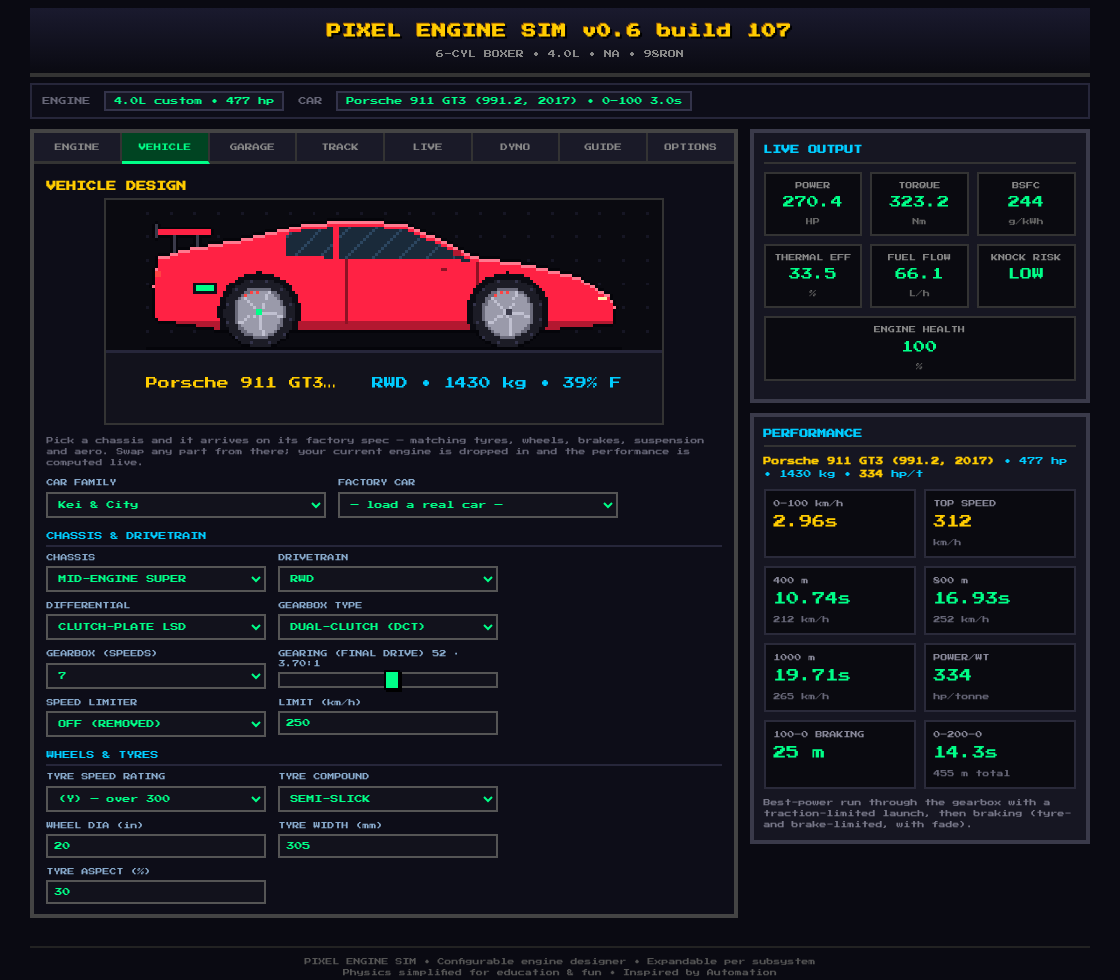
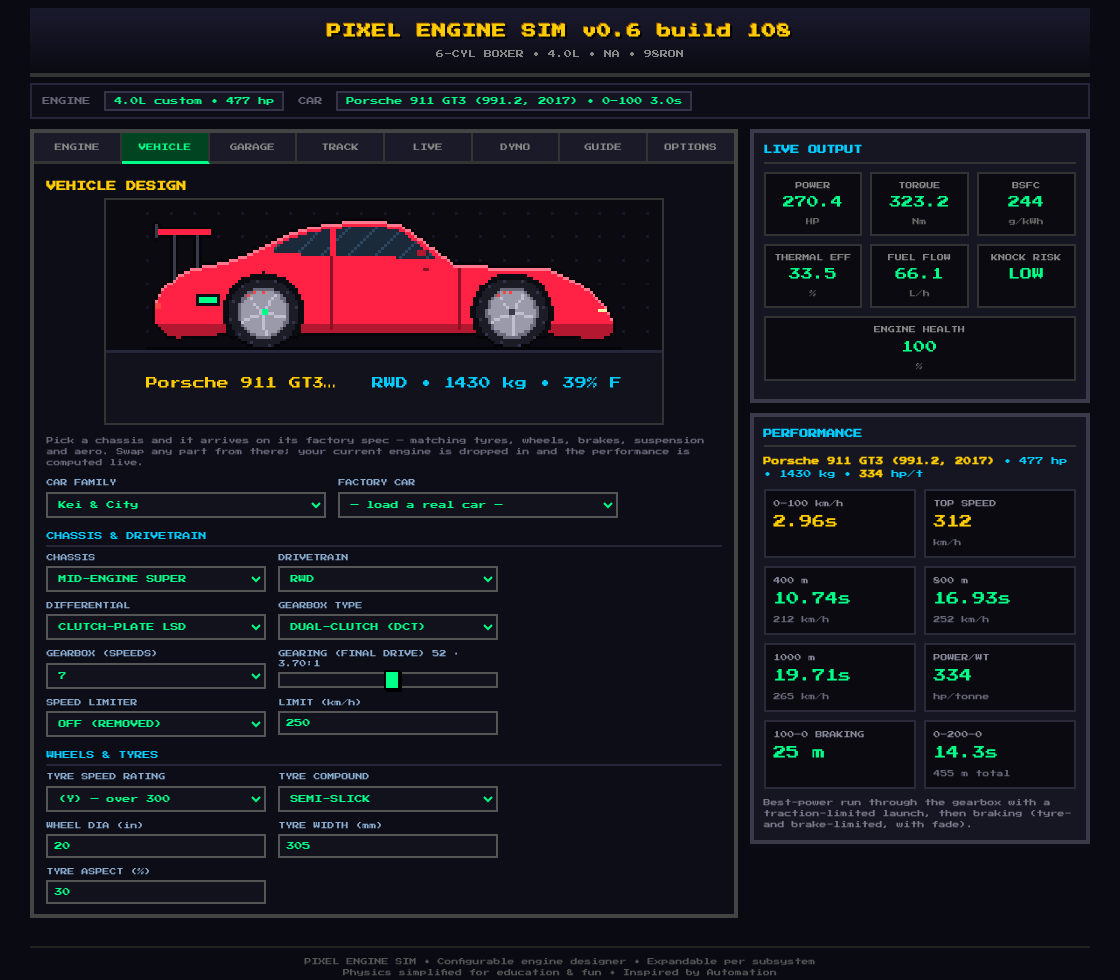
Build 108: trace the 911 GT3 profile from a real side view
The gt3 outline now comes from a Commons photo of the same 991 shell
(Porsche 991 Turbo S Seitenansicht, KarleHorn, CC BY 3.0). The photo's
close-camera perspective is corrected and the trace is fitted to the
published GT3 length, height and wheelbase. Only numbers ship.

Claude-Session: https://claude.ai/code/session_01JPC6jKbru9EiUk7AgLf2d3

Changed region(s): [[0.125, 0.2143, 0.3125, 0.3673], [0.375, 0.2449, 0.5625, 0.3673], [0.3438, 0.2143, 0.375, 0.2449]]

diff --git a/index.html b/index.html
@@ -281,7 +281,7 @@ table.fuelmap td.live{box-shadow:inset 0 0 0 2px #fff;font-weight:bold}
 <body>
 <div class="container">
 <header>
-<h1>PIXEL ENGINE SIM v0.6 build 107</h1>
+<h1>PIXEL ENGINE SIM v0.6 build 108</h1>
 <div class="subtitle" id="subtitle">ENGINE DESIGNER • BUILD IT, THEN DRIVE IT</div>
 </header>
 <div class="build-strip" id="buildStrip">
@@ -7065,9 +7065,9 @@ const CAR_PROFILE={
   s2000:{n:'Honda S2000 (AP1)',src:'Honda 1999: L4135 W1750 H1285 WB2400',L:4.135,W:1.750,H:1.285,wb:2.400,ovR:0.80,r:0.316,sill:0.20,open:1,
     top:[0.03,0.30, 0,0.64, 0.05,0.88, 0.40,0.92, 1.05,0.93, 2.63,0.92, 3.50,0.80, 4.00,0.66, 4.135,0.48, 4.11,0.28],
     belt:[0.92,0.92],scr:[2.63,0.92,2.25,1.285],cock:[1.10,2.55],hr:[1.15,1.12],door:[1.25,2.55]},
-  gt3:{n:'Porsche 911 GT3 (991.2)',src:'Porsche 2017: L4562 W1852 H1271 WB2457',L:4.562,W:1.852,H:1.271,wb:2.457,ovR:1.05,r:0.3455,sill:0.18,rs:'coilover',
-    top:[0.03,0.28, 0,0.62, 0.05,0.90, 0.35,0.98, 0.90,1.08, 1.55,1.24, 2.05,1.271, 2.50,1.23, 3.20,0.90, 3.75,0.82, 4.20,0.70, 4.50,0.52, 4.562,0.40, 4.54,0.24],
-    belt:[0.92,0.88],dlo:[1.30,3.15],pil:[1.80],door:[1.90,3.18],fw:[0.05,0.55,1.18]},
+  gt3:{n:'Porsche 911 GT3 (991.2)',src:'Porsche 2017: L4562 W1852 H1271 WB2457; outline traced from Commons File:Porsche 991 Turbo S Seitenansicht.JPG (KarleHorn, CC BY 3.0), the same 991 shell, perspective-corrected and fitted to the GT3 figures',L:4.562,W:1.852,H:1.271,wb:2.457,ovR:1.09,r:0.3455,sill:0.14,rs:'coilover',arch:1.13,
+    top:[0.24,0.1, 0.11,0.14, 0,0.29, 0.04,0.52, 0.14,0.63, 0.28,0.74, 0.41,0.79, 0.69,0.85, 0.93,0.93, 1.17,1.04, 1.34,1.13, 1.52,1.19, 1.7,1.23, 2.02,1.27, 2.27,1.26, 2.46,1.22, 2.98,0.83, 3.44,0.8, 3.92,0.78, 4.13,0.68, 4.33,0.56, 4.47,0.42, 4.53,0.3, 4.562,0.17, 4.44,0.08],
+    belt:[0.95,0.90],dlo:[1.17,2.79],pil:[1.77],door:[1.76,3.02],fw:[0.05,0.55,1.18]},
   supra:{n:'Toyota Supra RZ (A80)',src:'Toyota 1993: L4520 W1810 H1275 WB2550',L:4.520,W:1.810,H:1.275,wb:2.550,ovR:0.95,r:0.318,sill:0.22,
     top:[0.03,0.30, 0,0.64, 0.04,0.92, 0.45,0.98, 1.10,1.03, 1.65,1.24, 1.95,1.275, 2.35,1.26, 3.07,0.92, 4.05,0.76, 4.45,0.62, 4.52,0.45, 4.50,0.28],
     belt:[0.96,0.92],dlo:[1.25,3.02],pil:[1.85],door:[1.90,3.05],fw:[0.05,0.60,1.12]},

diff --git a/docs/car-profile-references.md b/docs/car-profile-references.md
@@ -90,3 +90,17 @@ Please note the **source name, URL and licence** for each car. It goes into that
 5. Add a CHANGELOG line and refresh `docs/vehicle.png`.
 
 References can arrive in any order and in any batch size.
+
+## Sources traced so far
+
+| Car | Reference | Author / licence | Fit |
+|---|---|---|---|
+| `gt3` Porsche 911 GT3 991.2 | [File:Porsche 991 Turbo S Seitenansicht.JPG](https://commons.wikimedia.org/wiki/File:Porsche_991_Turbo_S_Seitenansicht.JPG) | KarleHorn, CC BY 3.0 | See the notes below. |
+
+Notes on the 911 trace:
+
+- **Why the Turbo S photo:** Commons has no square-on side view or drawing of the 991.2 GT3 itself. This 991 Turbo S photo shares the GT3's wide 991 shell, glasshouse and doors; only the bumpers, the wing and the ride height differ.
+- **Raw trace:** the close camera makes the photo read 3971 mm long and 1194 mm tall, against the Turbo S's published 4506 mm and 1296 mm.
+- **Correction:** points set back from the side plane were pushed out from the optical centre (depth factor 1.135, fitted to the published length). The height still came out 7 % short, so the glasshouse was stretched to the published GT3 height.
+- **Result:** length and height match the published figures by construction. The photo supplies the shape: the cowl, roof, glass, pillar, doors and deck positions.
+- **Not shipped:** the photo is only a reference. The app carries the traced numbers alone.

diff --git a/CHANGELOG.md b/CHANGELOG.md
@@ -20,6 +20,14 @@ they are accurate about *what* shipped but not about the day it shipped.
 
 Working toward **v1.0 — every number derived, not fitted.**
 
+### First traced profile: Porsche 911 GT3 (build 108)
+
+- **The 911 GT3's outline is traced from a real side view** instead of being estimated by eye.
+  - **Source:** Commons, File:Porsche 991 Turbo S Seitenansicht.JPG (KarleHorn, CC BY 3.0). It shows the same 991 shell, from the door line to the roof.
+  - **Correction:** the photo's close-camera perspective is corrected, and the result is fitted to the published GT3 length, height and wheelbase.
+  - **What changed:** the cowl sits further back, the roof peaks behind the doors, the rump is lower and rounder, the nose is longer and lower, and the glasshouse is shorter.
+- **More traces to come:** this is a sample of the tracing method. The other 28 profiles are still estimates; docs/car-profile-references.md lists them and records each source.
+
 ### Car sprites from real profiles (build 107)
 
 - **Every car is drawn from a real car's side elevation** (CAR_PROFILE), not from hand-tuned shares

diff --git a/README.md b/README.md
@@ -1,4 +1,4 @@
-# PIXEL ENGINE SIM v0.6 build 107
+# PIXEL ENGINE SIM v0.6 build 108
 
 **A lightweight, 8-bit style internal combustion engine *designer* & simulator** inspired by *Automation*.
 
